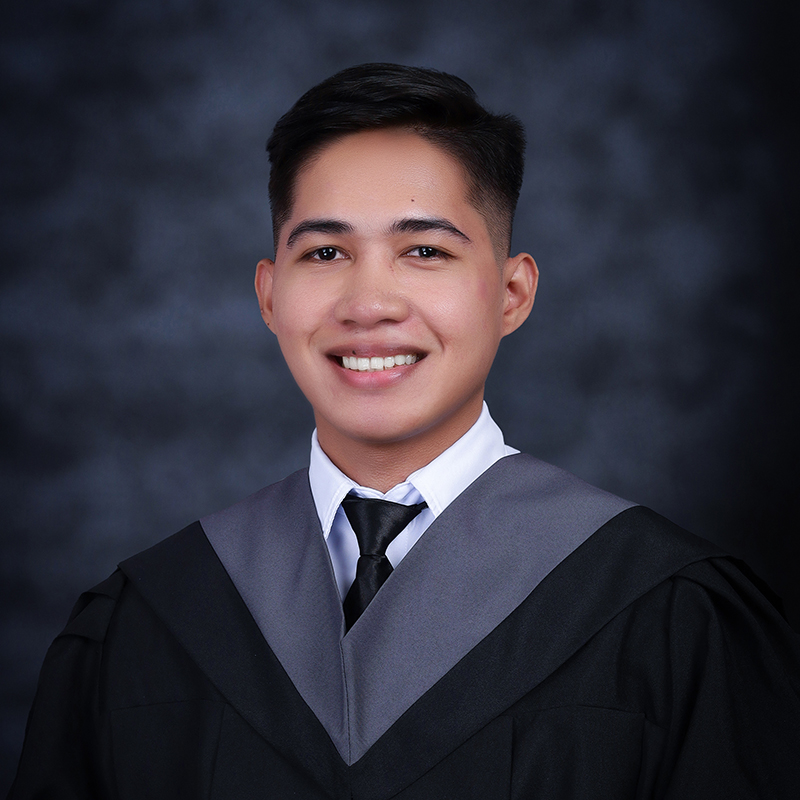
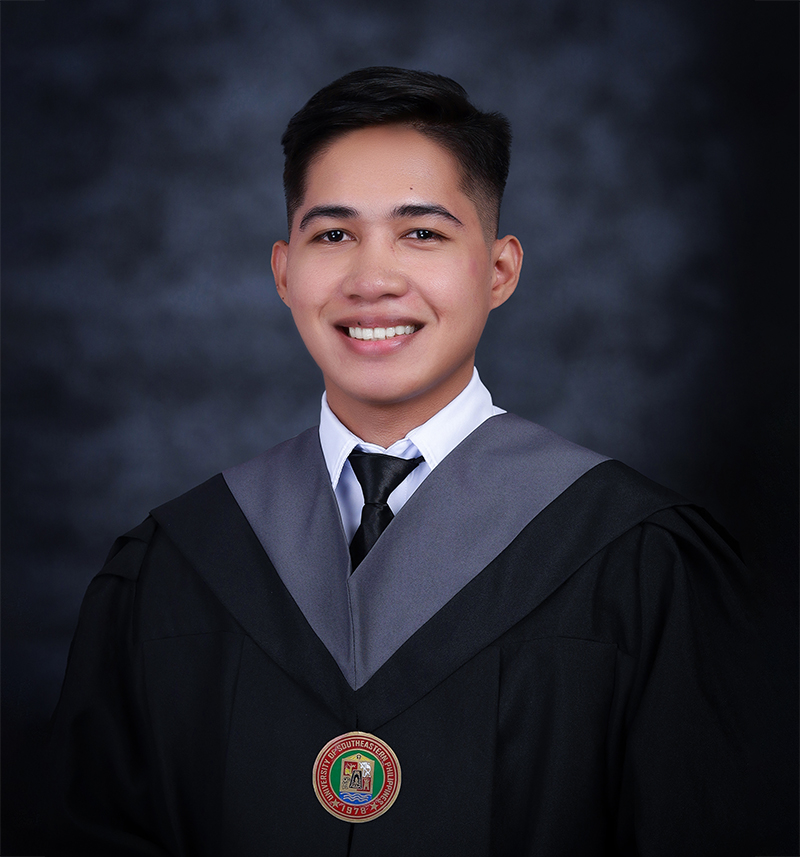
added educational bg and changed pfp size

diff --git a/src/components/About.js b/src/components/About.js
@@ -6,6 +6,8 @@ import TwitterLogo from "../images/TwitterLogo.png";
 import GithubLogo from "../images/GithubLogo.png";
 import Button from '@mui/material/Button';
 import RosalesCV from '../files/JohnAldreichRosalesCV.pdf'
+import KeyboardArrowRightOutlinedIcon from '@mui/icons-material/KeyboardArrowRightOutlined';
+import SchoolOutlinedIcon from '@mui/icons-material/SchoolOutlined';
 
 function About() {
     const handleDownload = () => {
@@ -24,7 +26,7 @@ function About() {
                 <div className="w-full flex justify-center items-center text-3xl lg:text-2xl pb-2 text-cyan-900">
                     <p>John Aldreich Rosales</p>  
                 </div>
-                <div className="w-full flex justify-center items-center space-x-4 p-2 mb-6">
+                <div className="w-full flex justify-center items-center space-x-4 p-2 mb-4">
                     <a href="https://www.facebook.com/aldreichj" target="_blank" rel="noopener noreferrer">
                     <img src={FacebookLogo} alt="Facebook Logo" className="h-10 object-contain"/>
                     </a>
@@ -39,26 +41,42 @@ function About() {
                     </a>         
                 </div>
             </div>
-            <div className="lg:w-3/5 flex-col justify-center items-center p-5 lg:px-10 space-y-5">
-                <div className="flex text-start items-center sm:text-6xl px-24 lg:px-0 text-5xl">
+            <div className="lg:w-3/5 flex-col justify-center items-center p-5 lg:px-10 space-y-5 ">
+                <div className="flex text-start items-center sm:text-6xl px-24 lg:px-0 text-5xl ">
                     <p className="leading-tight text-cyan-900">Hi, I'm Aldreich, Photo/Video Editor, and UI/UX Designer</p>
                 </div>
                 <div className="flex text-slate-700 px-24 lg:px-0">
                     <div className="w-1/2 text-xl">
-                        <ul className="leading-9">
-                            <li>● Logo Design and Branding</li>
-                            <li>● Creative Poster Design</li>
-                            <li>● Video Editing</li>
-                            <li>● Website Design</li>
+                        <ul className="leading-9 ">
+                            <li><KeyboardArrowRightOutlinedIcon/> Design and Branding</li>
+                            <li><KeyboardArrowRightOutlinedIcon/> Creative Poster Design</li>
+                            <li><KeyboardArrowRightOutlinedIcon/> Video Editing</li>
+                            <li><KeyboardArrowRightOutlinedIcon/> Website Design</li>
                         </ul>
                     </div>
                     <div className="w-1/2 text-xl">
                         <ul className="leading-9">
-                            <li>● Vexel and Vector Art Design</li>
-                            <li>● Photo Editing and Retouching</li>
-                            <li>● Computer Troubleshooting</li>
-                            <li>● Front-end Development</li>                          
+                            <li><KeyboardArrowRightOutlinedIcon/> Vexel and Vector Art Design</li>
+                            <li><KeyboardArrowRightOutlinedIcon/> Photo Editing and Retouching</li>
+                            <li><KeyboardArrowRightOutlinedIcon/> Computer Troubleshooting</li>
+                            <li><KeyboardArrowRightOutlinedIcon/> Front-end Development</li>                          
                         </ul>
+                    </div>
+                </div>
+                <div className="w-full flex flex-col justify-start items-start pt-4 text-slate-700 space-y-2 border-t px-24 lg:px-0">
+                    <div className="flex w-full space-x-4 items-center">
+                        <SchoolOutlinedIcon sx={{width:'30px', height:'30px'}}/>
+                        <div>
+                            <p className="text-xl lg:text-md">Bachelor of Science in Information Technology</p>  
+                            <p>University of Southeastern Philippines</p> 
+                        </div>                       
+                    </div>
+                    <div className="flex w-full space-x-4 items-center">
+                    <SchoolOutlinedIcon sx={{width:'30px', height:'30px'}}/>
+                        <div>
+                            <p className="text-xl lg:text-md">Computer Systems Servicing NCII</p>  
+                            <p>Davao City National High School</p> 
+                        </div>  
                     </div>
                 </div>
                 <div className="mt-2 flex justify-start items-center px-24 lg:px-0">

diff --git a/src/components/Navbar.js b/src/components/Navbar.js
@@ -10,7 +10,7 @@ function Navbar(){
             <div className="w-1/4 text-start text-xl text-cyan-900 xl:pl-0 pl-10">
                 <h1 className="text-2xl font-bold">ALD</h1>
             </div>
-            <div className="w-3/4 text-end text-lg space-x-10 text-slate-700 hidden md:block xl:pr-5 pr-16">
+            <div className="w-3/4 text-end text-md space-x-10 text-slate-700 hidden md:block xl:pr-5 pr-16">
                 <Link to="home" spy={true} smooth={true} duration={700} className="cursor-pointer hover:text-cyan-900">
                     Home
                 </Link>
